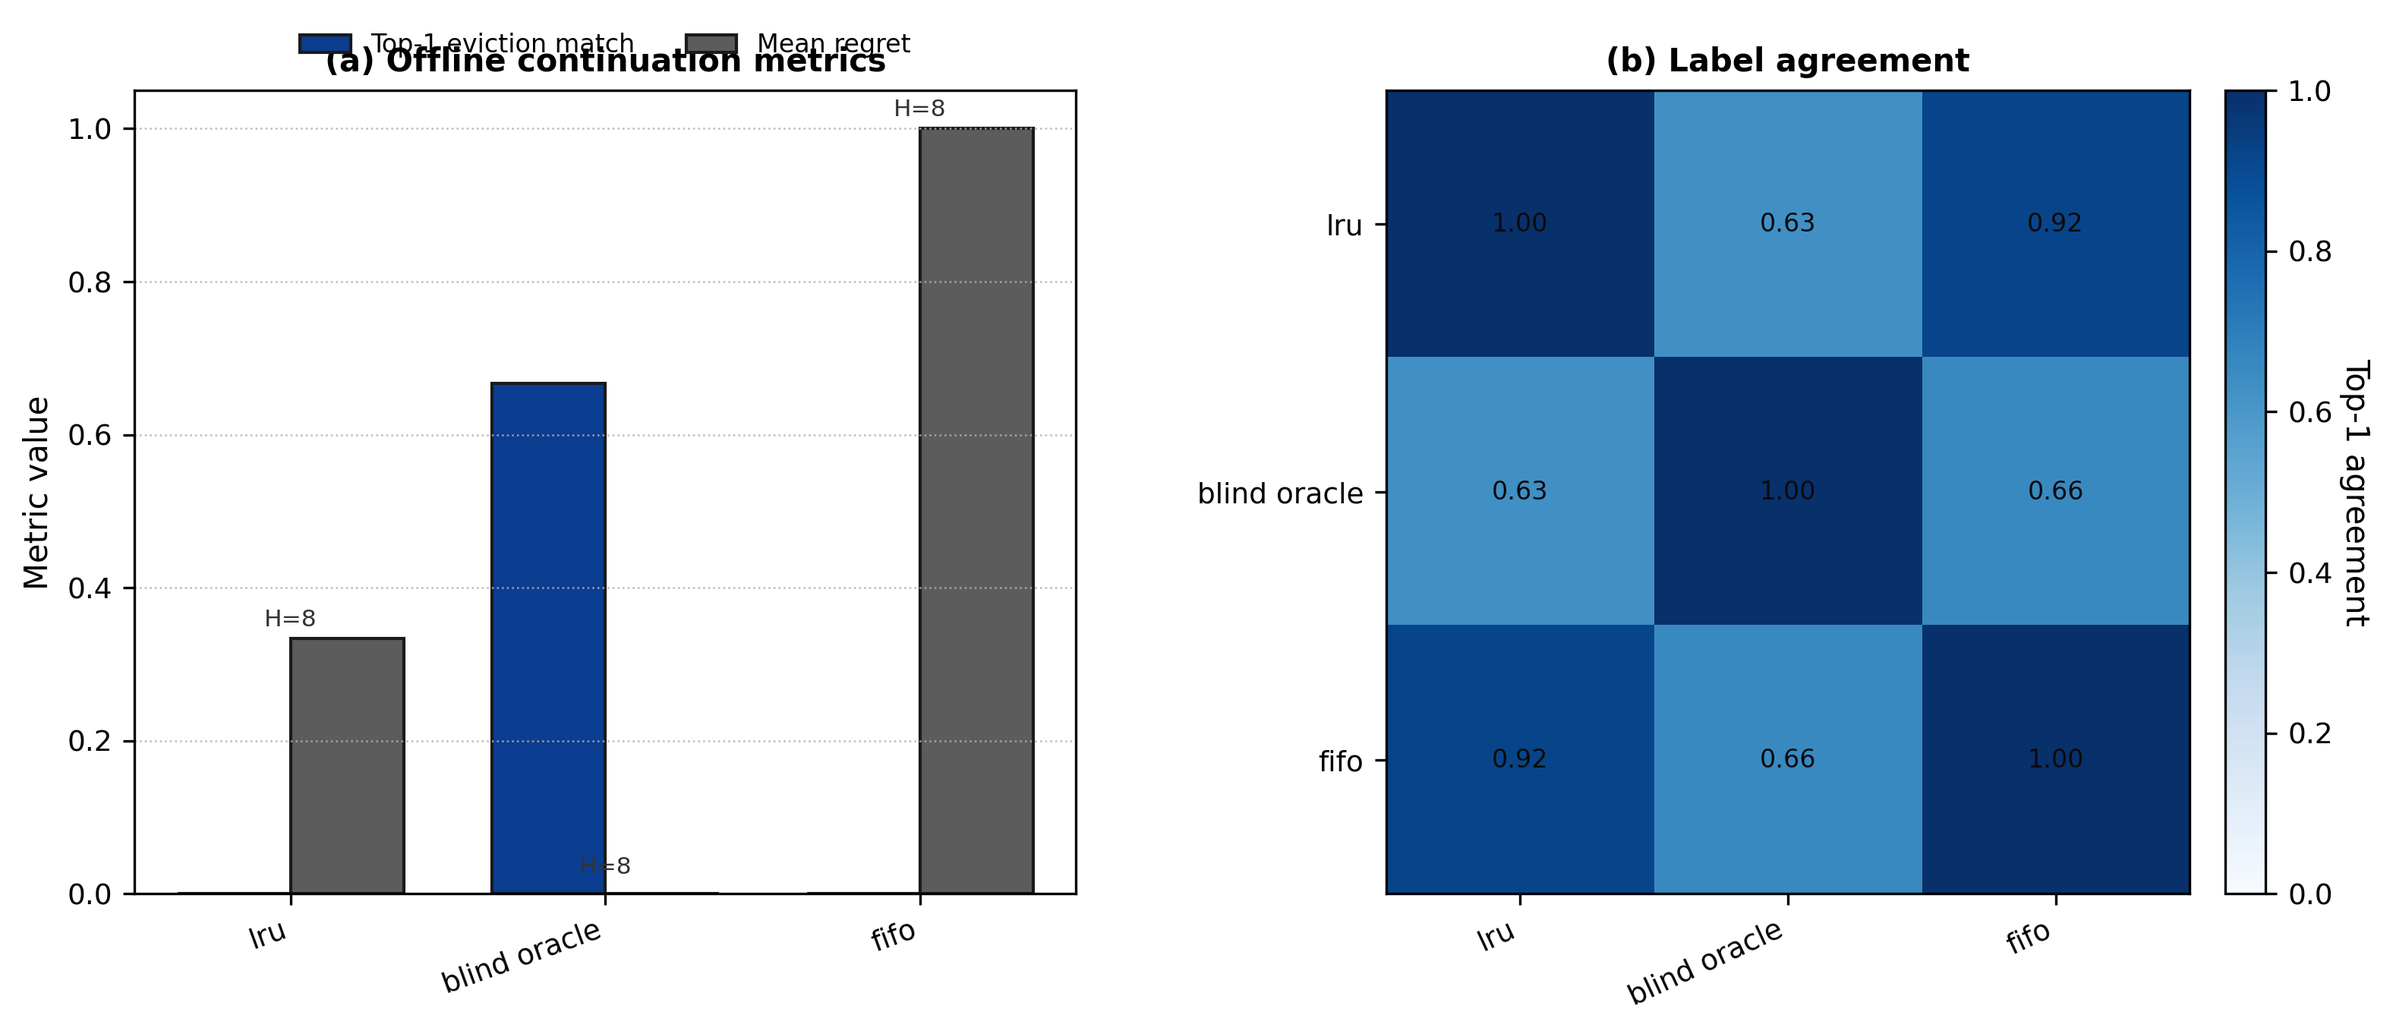
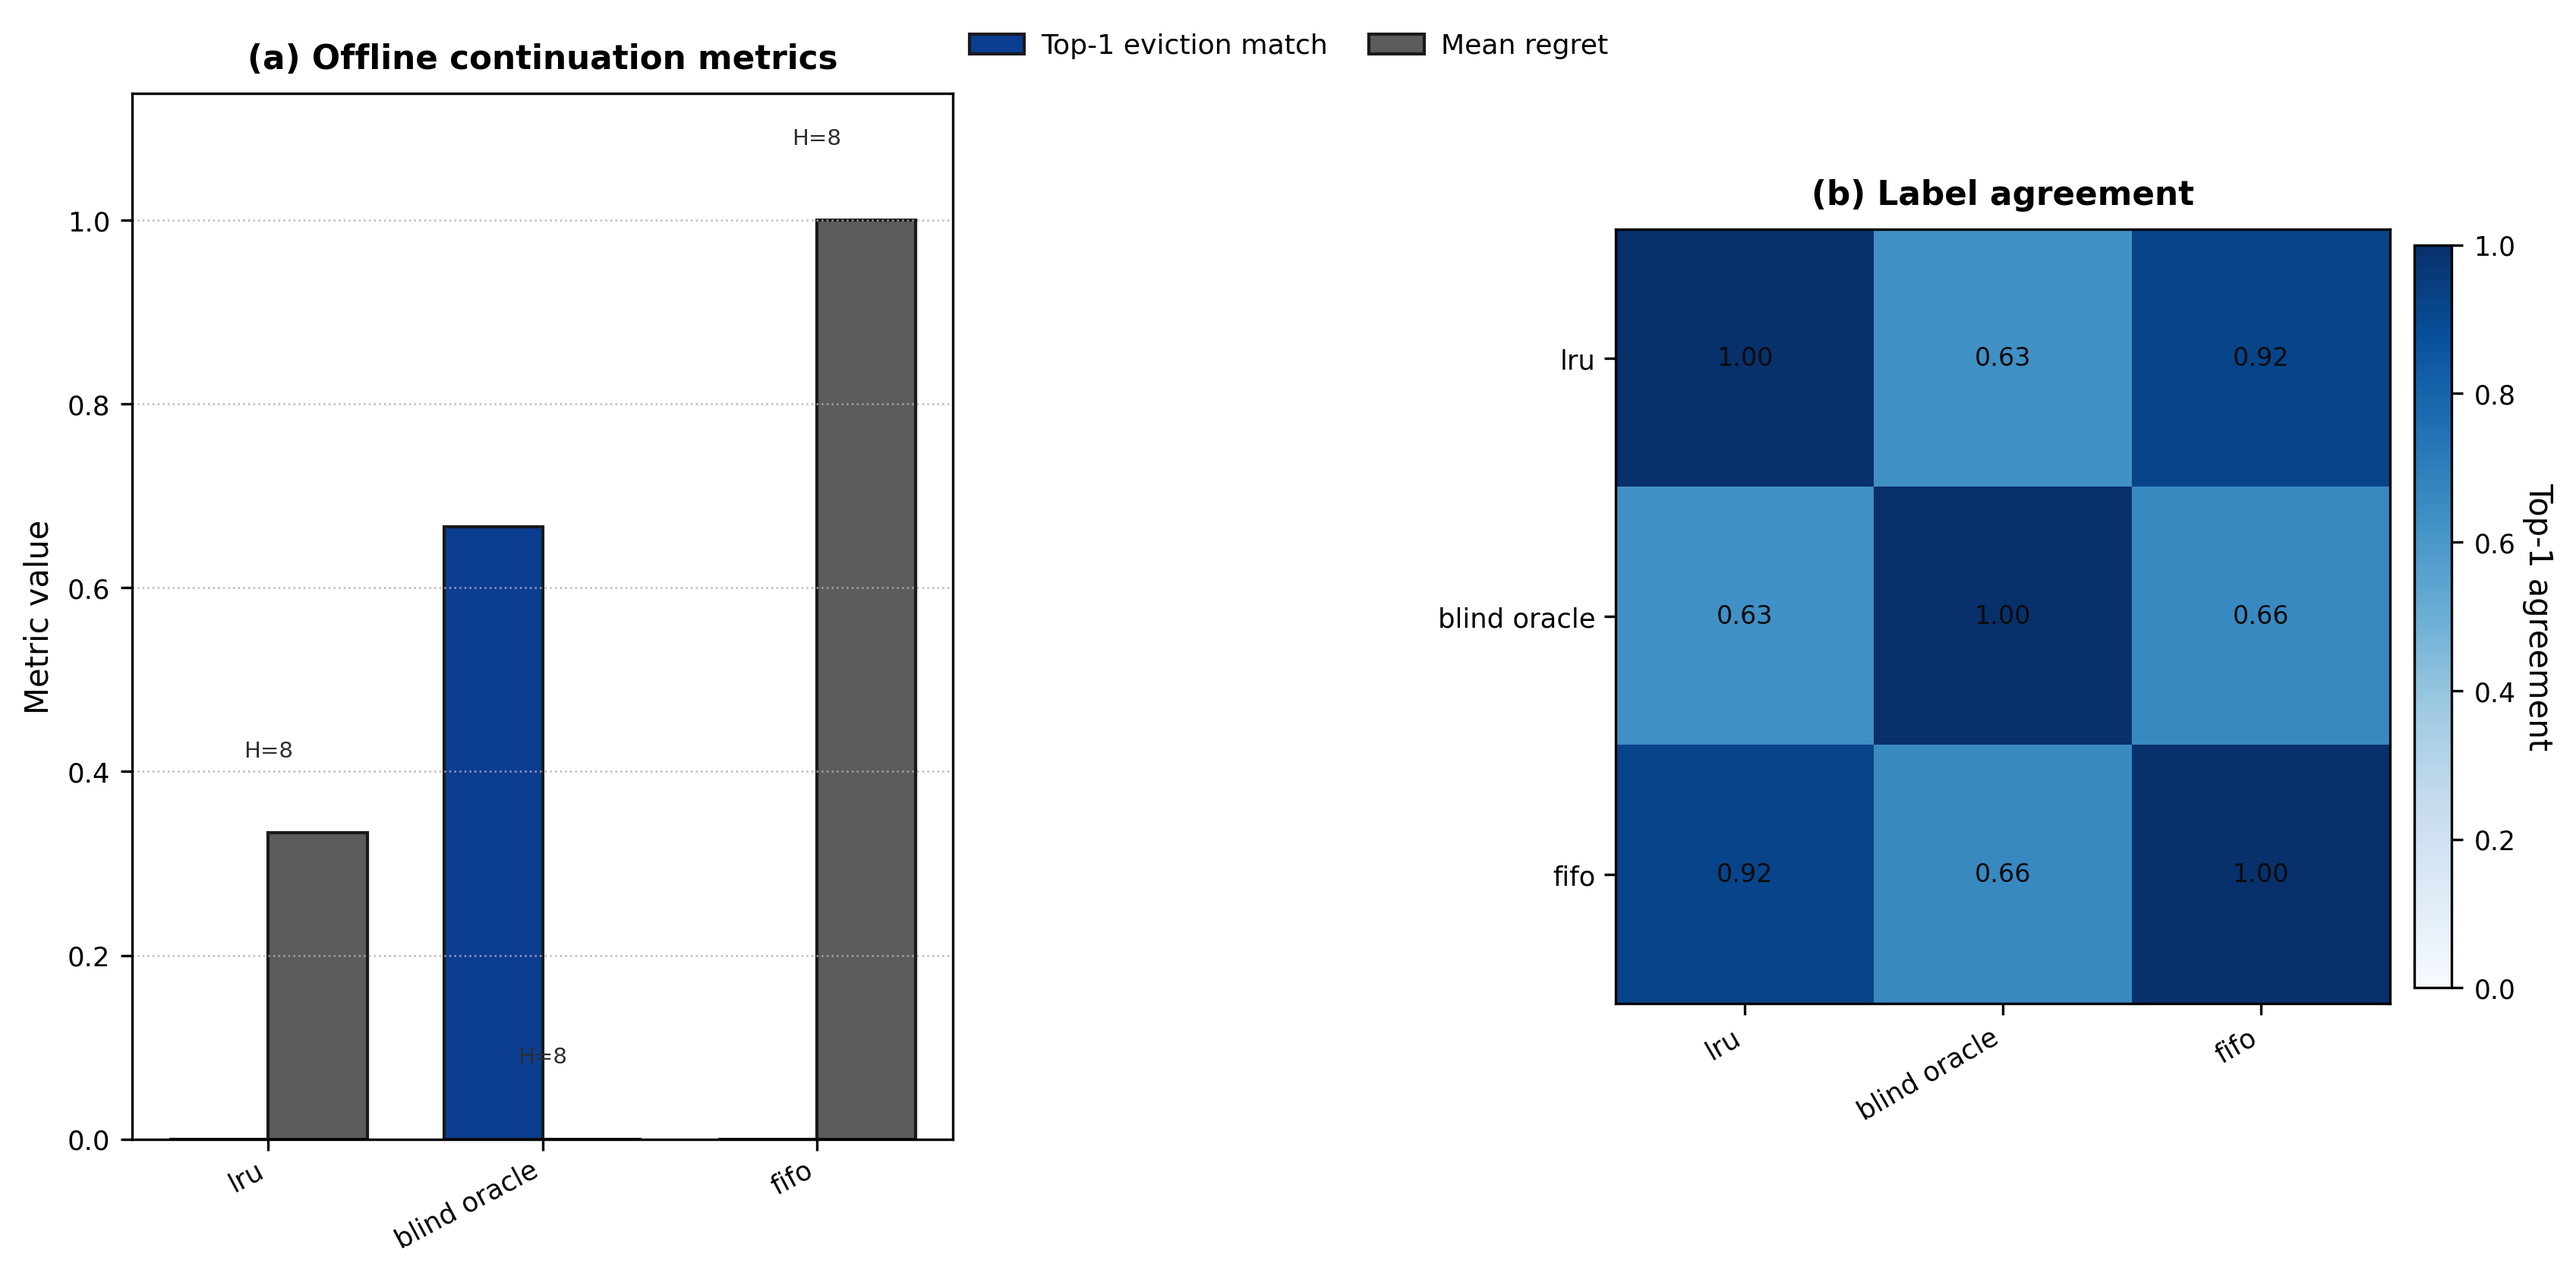
Improve figure7 continuation layout

diff --git a/scripts/paper/manuscript_figure_common.py b/scripts/paper/manuscript_figure_common.py
@@ -601,8 +601,8 @@ def make_continuation_policy_agreement_figure(
     horizons = [int(r["horizon"]) for r in summary_rows]
     policy_to_idx = {p: i for i, p in enumerate(policies)}
 
-    fig = plt.figure(figsize=(10.4, 4.9))
-    gs = fig.add_gridspec(1, 2, width_ratios=[1.05, 1.0], wspace=0.32, left=0.08, right=0.98, top=0.9, bottom=0.18)
+    fig = plt.figure(figsize=(11.2, 5.4), constrained_layout=True)
+    gs = fig.add_gridspec(1, 2, width_ratios=[1.06, 1.0], wspace=0.38)
     ax0 = fig.add_subplot(gs[0, 0])
     ax1 = fig.add_subplot(gs[0, 1])
 
@@ -610,14 +610,19 @@ def make_continuation_policy_agreement_figure(
     x = np.arange(len(policies), dtype=float)
     ax0.bar(x - width / 2, top1, width=width, color="#0b3d91", edgecolor="0.1", label="Top-1 eviction match")
     ax0.bar(x + width / 2, regrets, width=width, color="#5c5c5c", edgecolor="0.1", label="Mean regret")
+    max_metric = max(max(top1, default=0.0), max(regrets, default=0.0))
+    label_offset = 0.018 + 0.06 * max_metric
     for idx, (xi, h, reg) in enumerate(zip(x, horizons, regrets)):
-        ax0.text(xi, max(0.02, reg + 0.01), f"H={h}", ha="center", va="bottom", fontsize=7.5, color="0.2")
+        ax0.text(xi, reg + label_offset, f"H={h}", ha="center", va="bottom", fontsize=7.0, color="0.18")
     ax0.set_xticks(x)
-    ax0.set_xticklabels([p.replace("_", " ") for p in policies], rotation=20, ha="right")
+    ax0.set_xticklabels([p.replace("_", " ") for p in policies], rotation=28, ha="right")
     ax0.set_ylabel("Metric value")
-    ax0.set_title("(a) Offline continuation metrics", fontsize=10, fontweight="bold", pad=6)
+    ax0.set_ylim(0, max_metric + label_offset + 0.06)
+    ax0.set_title("(a) Offline continuation metrics", fontsize=10.5, fontweight="bold", pad=8)
     ax0.grid(axis="y", linestyle=":", linewidth=0.6, alpha=0.85)
-    ax0.legend(fontsize=8, frameon=False, loc="upper center", bbox_to_anchor=(0.5, 1.10), ncol=2)
+    ax0.tick_params(axis="x", labelsize=8.5, pad=2)
+    ax0.tick_params(axis="y", labelsize=8.5)
+    handles, labels = ax0.get_legend_handles_labels()
 
     mat = np.full((len(policies), len(policies)), np.nan)
     np.fill_diagonal(mat, 1.0)
@@ -633,16 +638,30 @@ def make_continuation_policy_agreement_figure(
     im = ax1.imshow(mat, cmap="Blues", vmin=0.0, vmax=1.0)
     ax1.set_xticks(np.arange(len(policies)))
     ax1.set_yticks(np.arange(len(policies)))
-    ax1.set_xticklabels([p.replace("_", " ") for p in policies], rotation=25, ha="right")
+    ax1.set_xticklabels([p.replace("_", " ") for p in policies], rotation=30, ha="right")
     ax1.set_yticklabels([p.replace("_", " ") for p in policies])
+    ax1.tick_params(axis="both", labelsize=8.5, pad=3)
     for i in range(len(policies)):
         for j in range(len(policies)):
             if np.isnan(mat[i, j]):
                 continue
             ax1.text(j, i, f"{mat[i, j]:.2f}", ha="center", va="center", color="#0b0b0b", fontsize=8)
-    ax1.set_title("(b) Label agreement", fontsize=10, fontweight="bold", pad=6)
-    cbar = fig.colorbar(im, ax=ax1, fraction=0.046, pad=0.04)
+    ax1.set_title("(b) Label agreement", fontsize=10.5, fontweight="bold", pad=8)
+    cbar = fig.colorbar(im, ax=ax1, fraction=0.048, pad=0.032)
     cbar.ax.set_ylabel("Top-1 agreement", rotation=270, labelpad=12)
+    cbar.ax.tick_params(labelsize=8.3)
+
+    fig.legend(
+        handles,
+        labels,
+        ncol=2,
+        frameon=False,
+        fontsize=8.7,
+        loc="upper center",
+        bbox_to_anchor=(0.5, 1.02),
+        columnspacing=1.5,
+        handletextpad=0.6,
+    )
 
     return fig
 
